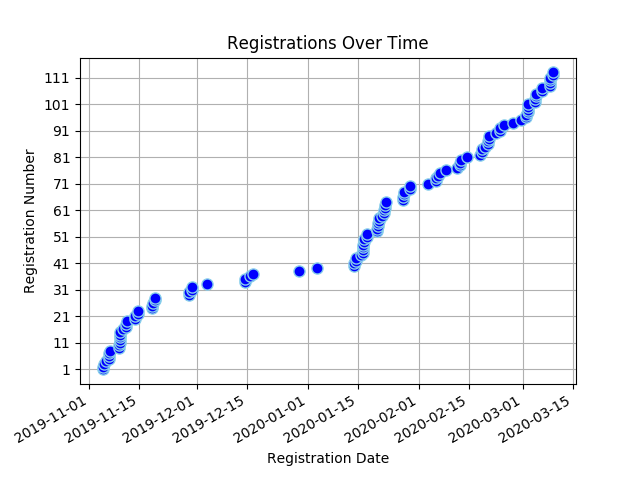
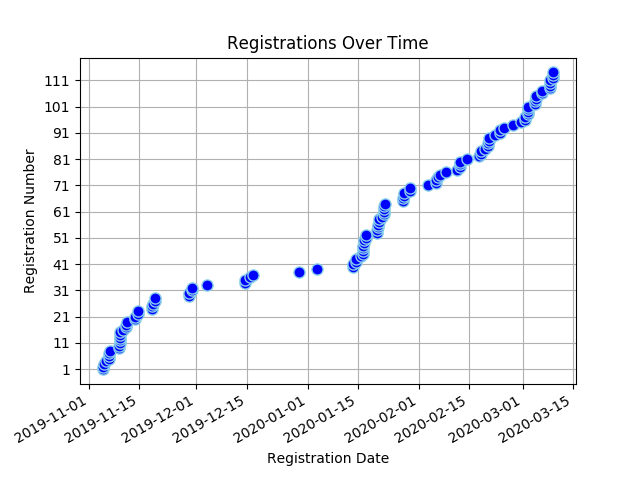
Registree stats backup on Mon Mar  9 15:37:03 SAST 2020

diff --git a/content/registrees/_index.md b/content/registrees/_index.md
@@ -3,7 +3,7 @@ title: Registration Stats
 draft: false
 ---
 
-<ul><li><strong>Number of Registrees</strong>: 113</li>
+<ul><li><strong>Number of Registrees</strong>: 114</li>
 
 <li><strong>Number of Clubs</strong>: 48</li>
 
@@ -30,6 +30,6 @@ draft: false
         </tr>
     </thead>
     <tbody>
-<tr><td>Linda Anderson</td><td>George</td></tr><tr><td>Karl Bands</td><td>Helderkruin</td></tr><tr><td>Jonquille Bands</td><td>Helderkruin</td></tr><tr><td>Valencia Beukes</td><td>Kuilsriver</td></tr><tr><td>Lyn Botha</td><td>Cowies Hill</td></tr><tr><td>Annette Bothma</td><td>Fish Hoek</td></tr><tr><td>Jose Braga Borges</td><td>Malmesbury</td></tr><tr><td>Nkandu Chapeshamano</td><td>Rustenburg</td></tr><tr><td>Lynnette Virginia Christians</td><td>Cape Of Good Hope</td></tr><tr><td>Sharon Cottle</td><td>Groote Schuur</td></tr><tr><td>Ivan Du Plooy</td><td>Krugersdorp</td></tr><tr><td>Peggy Du Plooy</td><td>Krugersdorp</td></tr><tr><td>Desiree Du Toit</td><td>Ramsgate</td></tr><tr><td>Charles Flanagan</td><td>Tokai</td></tr><tr><td>Julie Flanagan</td><td>Tokai</td></tr><tr><td>Allison Georges</td><td>Cape Of Good Hope</td></tr><tr><td>Bernd Gerhard</td><td>Wilro Park</td></tr><tr><td>Shirley Gerhard</td><td>Wilro Park</td></tr><tr><td>Valerie Graham</td><td>Nelspruit</td></tr><tr><td>Michael Graham</td><td>Nelspruit</td></tr><tr><td>Victor Hawla</td><td>Krugersdorp</td></tr><tr><td>Loriane Hawla</td><td>(Partner in Service)</td></tr><tr><td>Barbara Haywood</td><td>Eden</td></tr><tr><td>Wendy Higgins</td><td>Wilro Park</td></tr><tr><td>Trevor Hobbs</td><td>North Durban</td></tr><tr><td>Avril Hobbs</td><td>North Durban</td></tr><tr><td>Jacqui Hocking</td><td>Midrand</td></tr><tr><td>Cliff Hocking</td><td>Midrand</td></tr><tr><td>Leslie Human</td><td>East London Port Rex</td></tr><tr><td>Akinyemi Ismaila Tunde</td><td>-</td></tr><tr><td>Dawid Jacobs</td><td>Durbanville</td></tr><tr><td>Jean Jacobs</td><td>Mitchells Plain</td></tr><tr><td>Brenda Joshua</td><td>Cape Of Good Hope</td></tr><tr><td>Marco Joubert</td><td>Tygerberg Hills</td></tr><tr><td>Charlotte Jubelin</td><td>Cape Of Good Hope</td></tr><tr><td>Pascal Kabangu</td><td>Cape Of Good Hope</td></tr><tr><td>Ian King</td><td>Alberton</td></tr><tr><td>Sandy King</td><td>Alberton</td></tr><tr><td>Zwaai Krüger</td><td>Sedgefield</td></tr><tr><td>Bevil Lakay</td><td>Mitchells Plain</td></tr><tr><td>Paula Lang</td><td>Gordons Bay</td></tr><tr><td>James Malcolm Lang</td><td>Gordons Bay</td></tr><tr><td>Heather Lee</td><td>Cape Of Good Hope</td></tr><tr><td>Darrol Lee</td><td>Cape Of Good Hope</td></tr><tr><td>Tony Marron</td><td>Kingsburgh</td></tr><tr><td>Nick Maré</td><td>Benoni Lakes</td></tr><tr><td>Beaulieu Maré</td><td>Benoni Lakes</td></tr><tr><td>Lance Maytham</td><td>Bredasdorp</td></tr><tr><td>Mark Meltzer</td><td>The Wilds</td></tr><tr><td>Roy Michas</td><td>Midrand</td></tr><tr><td>Dawn Michas</td><td>Midrand</td></tr><tr><td>Patrick Mills</td><td>Centurion</td></tr><tr><td>Bernice Mills</td><td>Centurion</td></tr><tr><td>Brian Moses</td><td>Cape Of Good Hope</td></tr><tr><td>Alain Moulounda</td><td>Cape Of Good Hope</td></tr><tr><td>Tillie Nel</td><td>Eden</td></tr><tr><td>Pieter Nel</td><td>George</td></tr><tr><td>Michael Newlands</td><td>Port Alfred</td></tr><tr><td>Ramona Nulliah</td><td>Durban Host</td></tr><tr><td>Gary Nulliah</td><td>Durban Host</td></tr><tr><td>William Pfaff</td><td>North Durban</td></tr><tr><td>Jessica Philander</td><td>Cape Of Good Hope</td></tr><tr><td>Gavin Polkinghorne</td><td>Kensington</td></tr><tr><td>Tracey Polkinghorne</td><td>Kensington</td></tr><tr><td>Yvonne  Maureen Poyo</td><td>Cape Of Good Hope</td></tr><tr><td>Karin Preston</td><td>Durban South</td></tr><tr><td>Leon Ras</td><td>Swellendam</td></tr><tr><td>Mary-Anne Ras</td><td>Swellendam</td></tr><tr><td>Moira Rigby</td><td>Kingsburgh</td></tr><tr><td>David Rigby</td><td>Kingsburgh</td></tr><tr><td>Mark Rossouw</td><td>Tokai</td></tr><tr><td>Sharon Sampie</td><td>Bergvliet</td></tr><tr><td>Pinky Serobatse</td><td>(Partner in Service)</td></tr><tr><td>Susanna Helena Smit</td><td>Centurion</td></tr><tr><td>Herman Smit</td><td>Swellendam</td></tr><tr><td>Berdine Smit</td><td>(Partner in Service)</td></tr><tr><td>Bennie Smith</td><td>Wellington</td></tr><tr><td>Rochelle Smith</td><td>Cape Of Good Hope</td></tr><tr><td>Jeff Smith</td><td>Port Shepstone</td></tr><tr><td>Pierre Theron</td><td>Midrand</td></tr><tr><td>Moira Theron</td><td>Midrand</td></tr><tr><td>Diane Townsend</td><td>Benoni Lakes</td></tr><tr><td>Kendyl Townsend</td><td>Benoni Lakes</td></tr><tr><td>Alex Tshikala</td><td>Athlone</td></tr><tr><td>Alistair Tuckett</td><td>Roodepoort Clearwater Cyber</td></tr><tr><td>Gail Tuckett</td><td>Roodepoort Clearwater Cyber</td></tr><tr><td>Rowan Tuckett</td><td>Roodepoort Clearwater Cyber</td></tr><tr><td>Neville Van Rensburg</td><td>Moorreesburg</td></tr><tr><td>Jeannie Van Wulven</td><td>Tygerberg Hills</td></tr><tr><td>Yolandi Van der Schyf</td><td>Midrand</td></tr><tr><td>Keith Weston</td><td>Scottburgh</td></tr><tr><td>Barbara Weston</td><td>Scottburgh</td></tr><tr><td>Joyce Wilcocks</td><td>Pretoria Jakaranda</td></tr><tr><td>Richard Williams</td><td>(Partner in Service)</td></tr><tr><td>Owolabi Williams Monzur</td><td>Badagry</td></tr><tr><td>Geila Wills</td><td>Cape Town</td></tr><tr><td>Patricia Wilson</td><td>Kingsburgh</td></tr><tr><td>Rocky Wright</td><td>Table View</td></tr><tr><td>Judy Young</td><td>Durbanville</td></tr><tr><td>Sydney van Heerden</td><td>Wilro Park</td></tr><tr><td>Sandy van Heerden</td><td>Wilro Park</td></tr><tr><td>Deon van Wulven</td><td>Tygerberg Hills</td></tr><tr><td>Janine van Wulven</td><td>Tygerberg Hills</td></tr><tr><td>Lindie van Wyk</td><td>Pretoria Jakaranda</td></tr><tr><td>Vicki van Wyk</td><td>North Durban</td></tr><tr><td>Kim van Wyk</td><td>North Durban</td></tr><tr><td>Patricia van Wyk</td><td>Pretoria Jakaranda</td></tr><tr><td>Willie van Wyk</td><td>Midrand</td></tr><tr><td>Martha Maria van der Merwe</td><td>Malmesbury</td></tr><tr><td>Brian von der Decken</td><td>King William's Town</td></tr><tr><td>Janet von der Decken</td><td>(Partner in Service)</td></tr><tr><td>Andrew von der Decken</td><td>King William's Town</td></tr><tr><td>Ann von der Decken</td><td>King William's Town</td></tr>
+<tr><td>Linda Anderson</td><td>George</td></tr><tr><td>Karl Bands</td><td>Helderkruin</td></tr><tr><td>Jonquille Bands</td><td>Helderkruin</td></tr><tr><td>Valencia Beukes</td><td>Kuilsriver</td></tr><tr><td>Lyn Botha</td><td>Cowies Hill</td></tr><tr><td>Annette Bothma</td><td>Fish Hoek</td></tr><tr><td>Jose Braga Borges</td><td>Malmesbury</td></tr><tr><td>Nkandu Chapeshamano</td><td>Rustenburg</td></tr><tr><td>Lynnette Virginia Christians</td><td>Cape Of Good Hope</td></tr><tr><td>Sharon Cottle</td><td>Groote Schuur</td></tr><tr><td>Ivan Du Plooy</td><td>Krugersdorp</td></tr><tr><td>Peggy Du Plooy</td><td>Krugersdorp</td></tr><tr><td>Desiree Du Toit</td><td>Ramsgate</td></tr><tr><td>Charles Flanagan</td><td>Tokai</td></tr><tr><td>Julie Flanagan</td><td>Tokai</td></tr><tr><td>Allison Georges</td><td>Cape Of Good Hope</td></tr><tr><td>Bernd Gerhard</td><td>Wilro Park</td></tr><tr><td>Shirley Gerhard</td><td>Wilro Park</td></tr><tr><td>Valerie Graham</td><td>Nelspruit</td></tr><tr><td>Michael Graham</td><td>Nelspruit</td></tr><tr><td>Victor Hawla</td><td>Krugersdorp</td></tr><tr><td>Loriane Hawla</td><td>(Partner in Service)</td></tr><tr><td>Barbara Haywood</td><td>Eden</td></tr><tr><td>Wendy Higgins</td><td>Wilro Park</td></tr><tr><td>Trevor Hobbs</td><td>North Durban</td></tr><tr><td>Avril Hobbs</td><td>North Durban</td></tr><tr><td>Jacqui Hocking</td><td>Midrand</td></tr><tr><td>Cliff Hocking</td><td>Midrand</td></tr><tr><td>Leslie Human</td><td>East London Port Rex</td></tr><tr><td>Akinyemi Ismaila Tunde</td><td>-</td></tr><tr><td>Dawid Jacobs</td><td>Durbanville</td></tr><tr><td>Jean Jacobs</td><td>Mitchells Plain</td></tr><tr><td>Brenda Joshua</td><td>Cape Of Good Hope</td></tr><tr><td>Marco Joubert</td><td>Tygerberg Hills</td></tr><tr><td>Charlotte Jubelin</td><td>Cape Of Good Hope</td></tr><tr><td>Pascal Kabangu</td><td>Cape Of Good Hope</td></tr><tr><td>Ian King</td><td>Alberton</td></tr><tr><td>Sandy King</td><td>Alberton</td></tr><tr><td>Zwaai Krüger</td><td>Sedgefield</td></tr><tr><td>Bevil Lakay</td><td>Mitchells Plain</td></tr><tr><td>Paula Lang</td><td>Gordons Bay</td></tr><tr><td>James Malcolm Lang</td><td>Gordons Bay</td></tr><tr><td>Heather Lee</td><td>Cape Of Good Hope</td></tr><tr><td>Darrol Lee</td><td>Cape Of Good Hope</td></tr><tr><td>Tony Marron</td><td>Kingsburgh</td></tr><tr><td>Nick Maré</td><td>Benoni Lakes</td></tr><tr><td>Beaulieu Maré</td><td>Benoni Lakes</td></tr><tr><td>Lance Maytham</td><td>Bredasdorp</td></tr><tr><td>Mark Meltzer</td><td>The Wilds</td></tr><tr><td>Roy Michas</td><td>Midrand</td></tr><tr><td>Dawn Michas</td><td>Midrand</td></tr><tr><td>Patrick Mills</td><td>Centurion</td></tr><tr><td>Bernice Mills</td><td>Centurion</td></tr><tr><td>Brian Moses</td><td>Cape Of Good Hope</td></tr><tr><td>Alain Moulounda</td><td>Cape Of Good Hope</td></tr><tr><td>Tillie Nel</td><td>Eden</td></tr><tr><td>Pieter Nel</td><td>George</td></tr><tr><td>Michael Newlands</td><td>Port Alfred</td></tr><tr><td>Ramona Nulliah</td><td>Durban Host</td></tr><tr><td>Gary Nulliah</td><td>Durban Host</td></tr><tr><td>William Pfaff</td><td>North Durban</td></tr><tr><td>Jessica Philander</td><td>Cape Of Good Hope</td></tr><tr><td>Gavin Polkinghorne</td><td>Kensington</td></tr><tr><td>Tracey Polkinghorne</td><td>Kensington</td></tr><tr><td>Yvonne  Maureen Poyo</td><td>Cape Of Good Hope</td></tr><tr><td>Karin Preston</td><td>Durban South</td></tr><tr><td>Leon Ras</td><td>Swellendam</td></tr><tr><td>Mary-Anne Ras</td><td>Swellendam</td></tr><tr><td>Moira Rigby</td><td>Kingsburgh</td></tr><tr><td>David Rigby</td><td>Kingsburgh</td></tr><tr><td>Mark Rossouw</td><td>Tokai</td></tr><tr><td>Sharon Sampie</td><td>Bergvliet</td></tr><tr><td>Pinky Serobatse</td><td>(Partner in Service)</td></tr><tr><td>Susanna Helena Smit</td><td>Centurion</td></tr><tr><td>Herman Smit</td><td>Swellendam</td></tr><tr><td>Berdine Smit</td><td>(Partner in Service)</td></tr><tr><td>Bennie Smith</td><td>Wellington</td></tr><tr><td>Rochelle Smith</td><td>Cape Of Good Hope</td></tr><tr><td>Jeff Smith</td><td>Port Shepstone</td></tr><tr><td>Pierre Theron</td><td>Midrand</td></tr><tr><td>Moira Theron</td><td>Midrand</td></tr><tr><td>Diane Townsend</td><td>Benoni Lakes</td></tr><tr><td>Kendyl Townsend</td><td>Benoni Lakes</td></tr><tr><td>Alex Tshikala</td><td>Athlone</td></tr><tr><td>Alistair Tuckett</td><td>Roodepoort Clearwater Cyber</td></tr><tr><td>Gail Tuckett</td><td>Roodepoort Clearwater Cyber</td></tr><tr><td>Rowan Tuckett</td><td>Roodepoort Clearwater Cyber</td></tr><tr><td>Neville Van Rensburg</td><td>Moorreesburg</td></tr><tr><td>Jeannie Van Wulven</td><td>Tygerberg Hills</td></tr><tr><td>Yolandi Van der Schyf</td><td>Midrand</td></tr><tr><td>Gunther Wallendorf</td><td>Krugersdorp</td></tr><tr><td>Keith Weston</td><td>Scottburgh</td></tr><tr><td>Barbara Weston</td><td>Scottburgh</td></tr><tr><td>Joyce Wilcocks</td><td>Pretoria Jakaranda</td></tr><tr><td>Richard Williams</td><td>(Partner in Service)</td></tr><tr><td>Owolabi Williams Monzur</td><td>Badagry</td></tr><tr><td>Geila Wills</td><td>Cape Town</td></tr><tr><td>Patricia Wilson</td><td>Kingsburgh</td></tr><tr><td>Rocky Wright</td><td>Table View</td></tr><tr><td>Judy Young</td><td>Durbanville</td></tr><tr><td>Sydney van Heerden</td><td>Wilro Park</td></tr><tr><td>Sandy van Heerden</td><td>Wilro Park</td></tr><tr><td>Deon van Wulven</td><td>Tygerberg Hills</td></tr><tr><td>Janine van Wulven</td><td>Tygerberg Hills</td></tr><tr><td>Lindie van Wyk</td><td>Pretoria Jakaranda</td></tr><tr><td>Vicki van Wyk</td><td>North Durban</td></tr><tr><td>Kim van Wyk</td><td>North Durban</td></tr><tr><td>Patricia van Wyk</td><td>Pretoria Jakaranda</td></tr><tr><td>Willie van Wyk</td><td>Midrand</td></tr><tr><td>Martha Maria van der Merwe</td><td>Malmesbury</td></tr><tr><td>Brian von der Decken</td><td>King William's Town</td></tr><tr><td>Janet von der Decken</td><td>(Partner in Service)</td></tr><tr><td>Andrew von der Decken</td><td>King William's Town</td></tr><tr><td>Ann von der Decken</td><td>King William's Town</td></tr>
 </tbody>
 </table>

diff --git a/content/full_stats/_index.md b/content/full_stats/_index.md
@@ -11,13 +11,13 @@
 <body>
 <h1 style="color: #000000;">Full Registration Stats</h1>
 <ul><li><strong>Number of Registrees</strong><ul>
-<li><strong>Total</strong>: 113</li>
-<li><strong>Lions</strong>: 108</li>
+<li><strong>Total</strong>: 114</li>
+<li><strong>Lions</strong>: 109</li>
 <li><strong>Partners In Service</strong>: 5</li>
 </ul>
 <li><strong>Number of Clubs</strong>: 48</li>
 <li><strong>Club With Most Attendees</strong>: Cape Of Good Hope (12 registrees)</li>
-<li><strong>Registrations</strong></li><ul><li><strong>Full</strong>: 110
+<li><strong>Registrations</strong></li><ul><li><strong>Full</strong>: 111
 <li><strong>Banquet</strong>: 1
 <li><strong>Convention</strong>: 2
 <li><strong>Theme</strong>: 1
@@ -32,9 +32,9 @@
 <li><strong>Service Project</strong>: 21
 <li><strong>Partner Program</strong>: 5
 </ul>
-<li><strong>Total Owed:</strong> R148050.00</li>
+<li><strong>Total Owed:</strong> R149335.00</li>
 <li><strong>Paid:</strong> R75535.00</li>
-<li><strong>Still Owed:</strong> R72515.00</li>
+<li><strong>Still Owed:</strong> R73800.00</li>
 <li><strong>Dietary Requirements</strong></li><ul>
 <li>Allergic to Shellfish</li>
 <li>Allergic to cheese and cream</li>
@@ -1068,6 +1068,17 @@ StillOwed
 <td>1340.00</td>
 <td>700.00</td>
 <td>640.00</td>
+</tr>
+
+    
+<tr style="background-color: yellow">
+<td>126</td>
+<td>Gunther Wallendorf</td>
+<td>Krugersdorp</td>
+<td>Gunther Wallendorf</td>
+<td>1285.00</td>
+<td>0.00</td>
+<td>1285.00</td>
 </tr>
 
     
